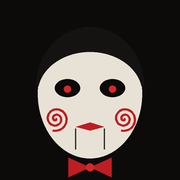
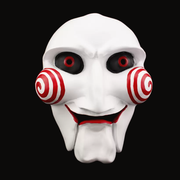
Говорящая маска Билли по фото, новая иконка

diff --git a/index.html b/index.html
@@ -68,16 +68,7 @@ button { font: inherit; color: inherit; cursor: pointer; }
 .stage { flex: 1; min-height: 0; overflow-y: auto; display: flex; flex-direction: column; align-items: center; gap: 18px; padding-block: 6px 18px; scrollbar-width: none; }
 .stage::-webkit-scrollbar { display: none; }
 .stage > * { flex-shrink: 0; }
-#face { width: min(40vw, 170px); height: auto; flex: none; filter: drop-shadow(0 0 34px rgba(163,25,27,.2)); animation: flick 9s infinite steps(1); }
-#face .skin { fill: url(#skin); }
-#face .dark { fill: #0c0b0a; }
-#face .hair { fill: #151311; }
-#face .bl { fill: var(--blood); }
-#face .bl-hi { fill: var(--blood-hi); }
-#face .spiral { fill: none; stroke: var(--blood); stroke-width: 2.4; stroke-linecap: round; }
-#face .crease { fill: none; stroke: #2c2824; stroke-width: 1.6; }
-#jaw { transform-box: fill-box; }
-#face.talk #jaw { animation: jaw .17s ease-in-out infinite alternate; }
+#face { width: min(50vw, 220px); max-width: 100%; height: auto; flex: none; animation: flick 9s infinite steps(1); }
 
 #subs { width: 100%; max-width: 30ch; display: flex; flex-direction: column; gap: 6px; text-align: center; min-height: 3em; }
 #subs p { margin: 0; font-family: var(--display); font-weight: 500; font-size: clamp(1.3rem, 5.6vw, 1.7rem); line-height: 1.3; text-wrap: balance; animation: rise .5s ease-out; transition: opacity .4s; }
@@ -142,14 +133,12 @@ video.real { width: min(72vw, 280px); max-height: 52vh; max-width: 100%; backgro
 
 @keyframes blink { 50% { opacity: 0; } }
 @keyframes flick { 0%, 100% { opacity: 1; } 41% { opacity: .55; } 42% { opacity: 1; } 77% { opacity: .8; } 78% { opacity: 1; } }
-@keyframes jaw { to { transform: translateY(7px); } }
 @keyframes rise { from { opacity: 0; transform: translateY(6px); } }
 @keyframes shake { 20%, 60% { transform: translateX(-8px); } 40%, 80% { transform: translateX(8px); } }
 @keyframes rattle { 50% { transform: translate(1px, -1px); } }
 @keyframes prog { from { transform: scaleX(0); } }
 @media (prefers-reduced-motion: reduce) {
   #s-wake .call, #face, #s-wake.grind, .bar .rec i { animation: none; }
-  #face.talk #jaw { animation-duration: .5s; }
   .panel.shake { animation: none; }
 }
 </style>
@@ -169,31 +158,7 @@ video.real { width: min(72vw, 280px); max-height: 52vh; max-width: 100%; backgro
     <span id="clk">0:00:00</span>
   </div>
   <div class="stage" id="stage">
-    <svg id="face" viewBox="0 0 200 230" aria-hidden="true">
-      <defs>
-        <radialGradient id="skin" cx="50%" cy="38%" r="62%">
-          <stop offset="0" stop-color="#f2ede3"/>
-          <stop offset="1" stop-color="#c9c0b0"/>
-        </radialGradient>
-      </defs>
-      <ellipse class="skin" cx="100" cy="110" rx="66" ry="80"/>
-      <path class="hair" d="M34 104 C26 36 174 36 166 104 C152 64 48 64 34 104Z"/>
-      <ellipse class="dark" cx="72" cy="104" rx="15" ry="11"/>
-      <ellipse class="dark" cx="128" cy="104" rx="15" ry="11"/>
-      <circle class="bl-hi" cx="72" cy="105" r="4.2"/>
-      <circle class="bl-hi" cx="128" cy="105" r="4.2"/>
-      <path class="crease" d="M100 114 L96 130 L104 130"/>
-      <path class="spiral" id="cheekL"/>
-      <path class="spiral" id="cheekR"/>
-      <path class="bl" d="M82 147 Q100 140 118 147 Q100 151 82 147Z"/>
-      <g id="jaw">
-        <path class="skin" d="M80 148 L80 178 Q100 194 120 178 L120 148 Z"/>
-        <path class="crease" d="M80 148 L80 178 Q100 194 120 178 L120 148"/>
-        <path class="bl" d="M84 149 Q100 158 116 149 Q100 153 84 149Z"/>
-      </g>
-      <path class="bl" d="M100 207 L70 193 L70 221 Z M100 207 L130 193 L130 221 Z"/>
-      <circle class="bl-hi" cx="100" cy="207" r="5.5"/>
-    </svg>
+    <canvas id="face" width="400" height="406" aria-hidden="true"></canvas>
     <div id="photoSlot" hidden></div>
     <div id="subs" aria-live="polite"></div>
     <div class="panel" id="panel" hidden></div>
@@ -563,16 +528,31 @@ const wake = $('#s-wake'), play = $('#s-play'), fin = $('#s-final');
 const subs = $('#subs'), panel = $('#panel'), face = $('#face'), stage = $('#stage');
 const btnSkip = $('#btnSkip'), btnRepeat = $('#btnRepeat'), btnHint = $('#btnHint');
 
-function spiral(cx, cy) {
-  let d = '';
-  for (let a = 0; a <= Math.PI * 4.6; a += .22) {
-    const r = 1.05 * a;
-    d += (a ? 'L' : 'M') + (cx + r * Math.cos(a)).toFixed(1) + ' ' + (cy + r * Math.sin(a)).toFixed(1);
+/* Маска Билли: челюсть вырезается по контуру и опускается, пока он говорит */
+const FACE_W = 400, FACE_H = 406;
+const JAW = [[292,500],[480,498],[497,525],[493,640],[500,700],[288,700],[286,640],[295,525]]
+  .map(([x, y]) => [x * FACE_W / 723, y * FACE_H / 733]);
[1 lines of base64/hex data omitted]
+const fctx = face.getContext('2d');
+let jaw = 0, jawTarget = 0, jawNext = 0;
+function jawPath() { fctx.beginPath(); JAW.forEach(([x, y], i) => i ? fctx.lineTo(x, y) : fctx.moveTo(x, y)); fctx.closePath(); }
+function drawFace(now) {
+  requestAnimationFrame(drawFace);
+  if (!faceImg.complete || !faceImg.naturalWidth || play.hidden) return;
+  if (now > jawNext) {
+    jawTarget = face.classList.contains('talk') ? (Math.random() < .2 ? 0 : .35 + Math.random() * .65) : 0;
+    jawNext = now + 70 + Math.random() * 90;
   }
-  return d;
+  jaw += (jawTarget - jaw) * .35;
+  const dy = jaw * 15;
+  fctx.clearRect(0, 0, FACE_W, FACE_H);
+  fctx.drawImage(faceImg, 0, 0, FACE_W, FACE_H);
+  if (dy < .2) return;
+  jawPath(); fctx.fillStyle = '#0c0b0a'; fctx.fill();
+  fctx.save(); fctx.translate(0, dy); jawPath(); fctx.clip();
+  fctx.drawImage(faceImg, 0, 0, FACE_W, FACE_H); fctx.restore();
 }
-$('#cheekL').setAttribute('d', spiral(60, 138));
-$('#cheekR').setAttribute('d', spiral(140, 138));
+requestAnimationFrame(drawFace);
 
 async function say(lines, id, noScroll) {
   skipping = false; subs.innerHTML = ''; btnSkip.hidden = false;
